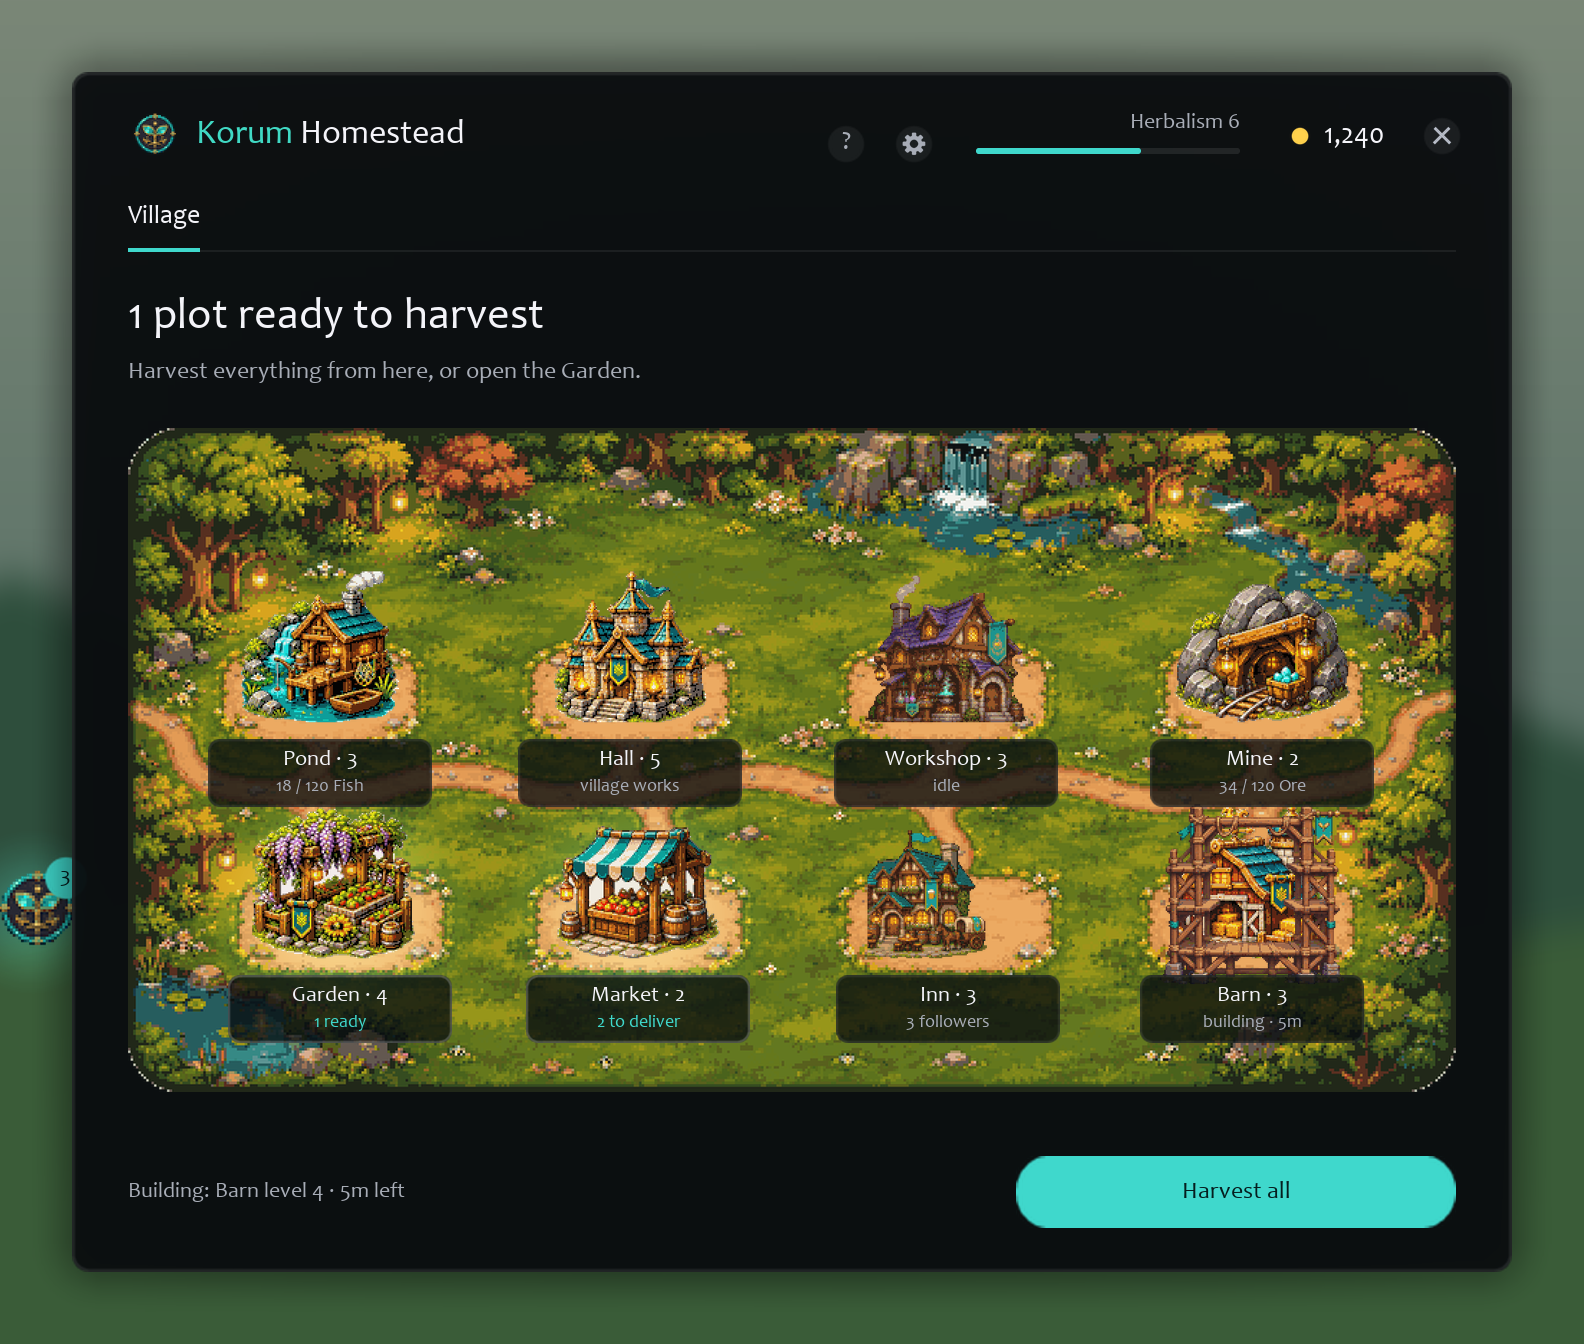
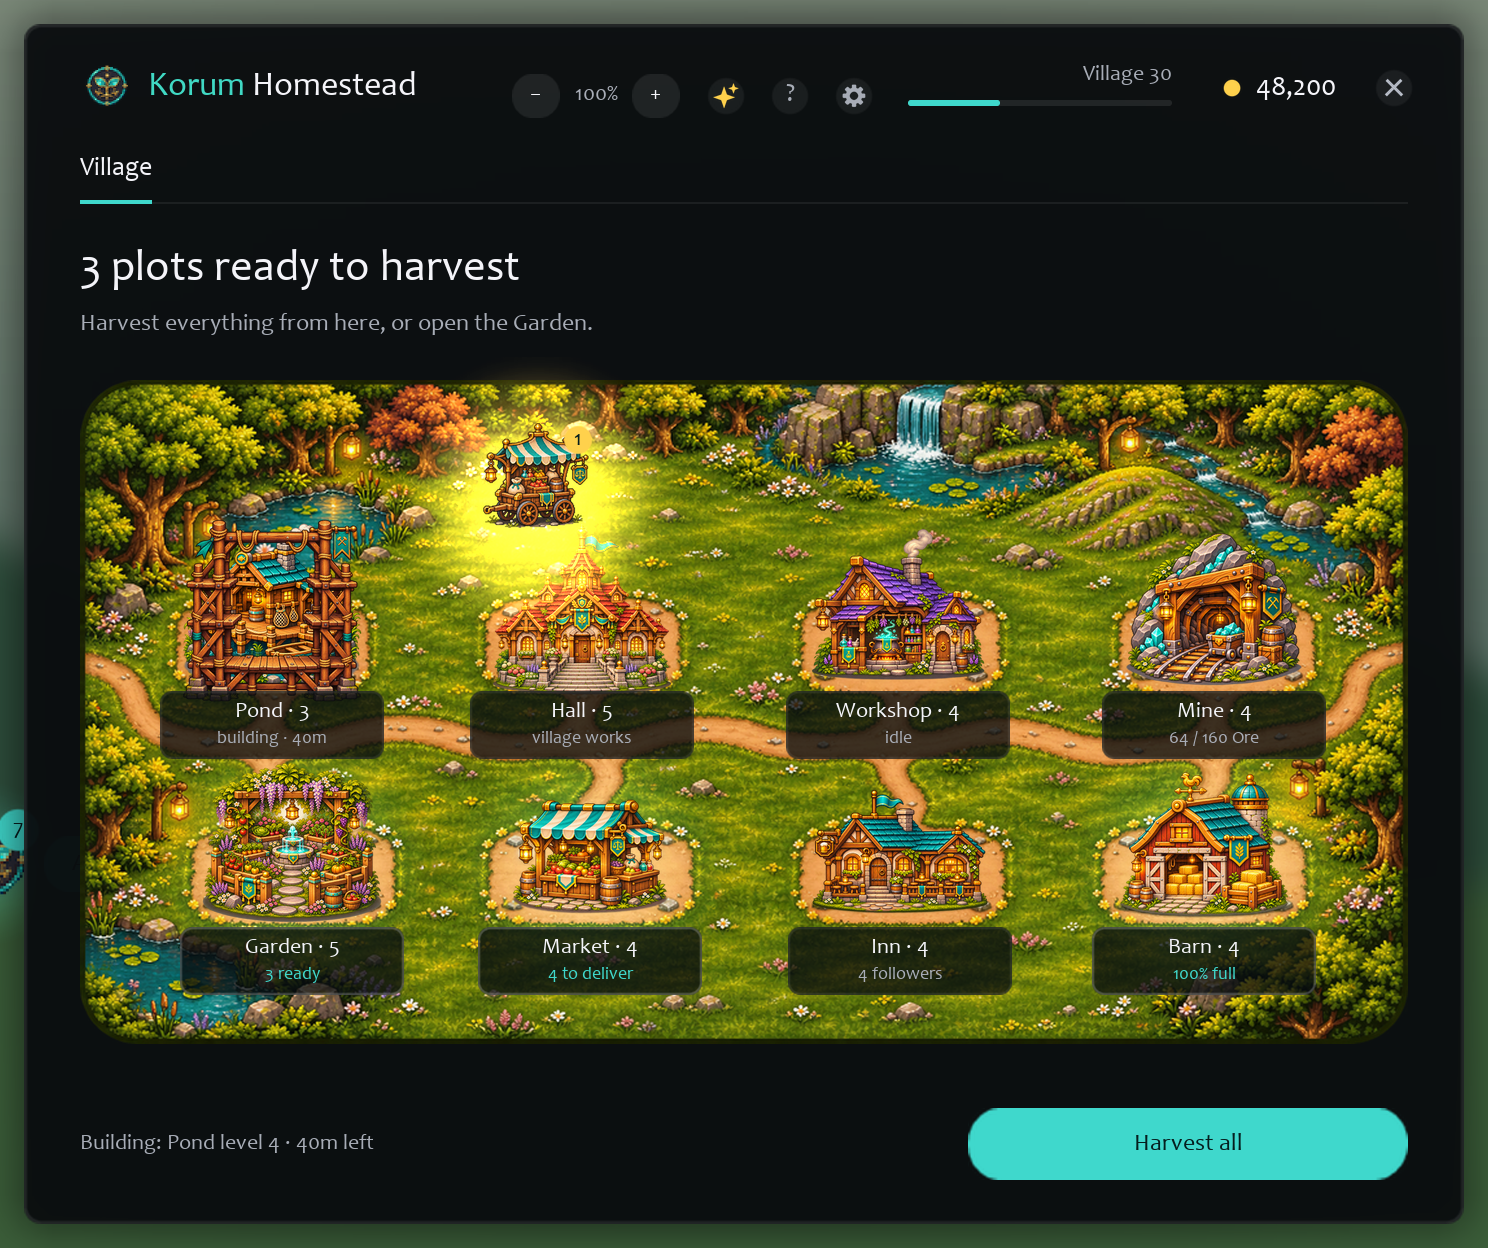
Página do CurseForge: texto da 2.x e imagens novas da vila e da Estalagem

diff --git a/ferramentas/curse_homestead.py b/ferramentas/curse_homestead.py
@@ -26,33 +26,38 @@ def logo():
 
 
 def screens():
+    """A village in the middle of the game (Village 30, every building built), in English."""
     now = 1700000000
     seen = "seen = {hall = true, garden = true, barn = true, market = true, mine = true, pond = true, workshop = true, inn = true},"
-    mid = ("{coins = 1240, xp = 150, level = 6, nplots = 5, selected = 2450, tutorial = {done = true}, lang = 'enUS', " + seen +
-           " stats = {harvested = 412, earned = 3980, delivered = 9},"
-           " buildings = {hall = 5, garden = 4, barn = 3, market = 2, mine = 2, pond = 3, workshop = 3, inn = 3},"
-           " goods = {ore = 34, fish = 18, heal = 2},"
-           f" work = {{id = 'barn', at = {now - 200}, time = 480}},"
-           f" plots = {{[1] = {{plant = 2450, at = {now - 2000}}}, [2] = {{plant = 2453, at = {now - 700}}},"
-           f" [3] = {{plant = 785, at = {now - 330}}}, [4] = {{plant = 2447, at = {now - 20}}}}},"
-           " crops = {[2447] = 14, [765] = 9, [2449] = 6, [785] = 12, [2450] = 5},"
-           " orders = {{plant = 785, qty = 8, coins = 358, xp = 80, npc = 2}, {plant = 2450, qty = 7, coins = 560, xp = 122, npc = 4},"
-           " {plant = 2449, qty = 4, coins = 115, xp = 24, npc = 1}}}")
-    first = mid.replace(seen, "seen = {},")
+    mid = ("{schema = 3, coins = 48200, xp = 2100, level = 30, selected = 3356, tutorial = {done = true}, newsSeen = 1000,"
+           " lang = 'enUS', " + seen +
+           " stats = {harvested = 4120, earned = 398000, delivered = 96},"
+           " buildings = {hall = 5, garden = 5, barn = 4, market = 4, mine = 4, pond = 3, workshop = 4, inn = 4},"
+           " goods = {ore = 64, fish = 38, heal = 4, healing = 2, stew = 3, bar = 5},"
+           f" work = {{id = 'pond', at = {now - 900}, time = 3300}},"
+           f" plots = {{[1] = {{plant = 3357, at = {now - 2000}}}, [2] = {{plant = 3356, at = {now - 300}}},"
+           f" [3] = {{plant = 3356, at = {now - 120}}}, [4] = {{plant = 2453, at = {now - 600}}},"
+           f" [5] = {{plant = 3369, at = {now - 40}}}, [6] = {{plant = 3355, at = {now - 2000}}}}},"
+           " crops = {[2447] = 24, [765] = 19, [2449] = 16, [785] = 22, [2450] = 15, [2453] = 30, [3356] = 12, [3357] = 8, [3369] = 14}}")
     shots = [
-        ("1-village", mid, "village", ""),
-        ("2-garden", mid, "garden", ""),
-        ("3-workshop", mid, "workshop", "NS.UI.trade = 'alchemy'; NS.Workshop:Craft('heal'); NS.Workshop:Craft('heal'); NS.UI:Refresh()"),
-        ("4-inn", mid, "inn", "NS.Inn:Start(1, 'short'); NS.Inn:Start(2, 'medium'); NS.UI:Refresh()"),
-        ("5-market", mid, "orders", ""),
-        ("6-how-it-works", first, "hall", ""),
-        ("7-guide", mid, "guide", "NS.UI.guidePage = 'buildings'; NS.UI:Refresh()"),
+        ("1-village", "village", "NS.Events:Spawn('merchant')", ""),
+        ("2-garden", "garden", "", ""),
+        ("3-workshop", "workshop", "", "NS.UI.trade = 'alchemy'; NS.Workshop:Craft('heal'); NS.Workshop:Craft('heal'); NS.UI:Refresh()"),
+        ("4-inn", "inn", "", "NS.Inn:Start(1, 'short'); NS.Inn:Start(2, 'medium'); NS.Inn:Start(3, 'long'); NS.UI:Refresh()"),
+        ("5-market", "orders", "", ""),
+        ("6-visitors", "visitors", "NS.Events:Spawn('urgent'); local e = NS.Events:Spawn('caravan'); local t = e.trades[1];"
+         " if type(t.give) == 'number' then NS.db.crops[t.give] = t.n else NS.db.goods[t.give] = t.n end", ""),
+        ("7-barn", "barn", "", ""),
     ]
-    for name, setup, view, after in shots:
+    for name, view, before, after in shots:
         g = sim.Game("enUS")
         g.run("math.randomseed(11)")
-        g.run("KorumHomesteadDB = " + setup)
+        g.run(f"SIM.clock = {now}")
+        g.run("KorumHomesteadDB = " + mid)
         g.load("KorumHomestead", sim.HOMESTEAD)
+        g.run("NS.Orders:Ensure()")
+        if before:
+            g.run(before)
         g.run(f"NS.UI:Show('{view}')")
         g.advance(2.0)
         if after:

diff --git a/docs/curseforge.md b/docs/curseforge.md
@@ -1,0 +1,115 @@
+![The village](https://raw.githubusercontent.com/joaomenestrina-debug/KorumHomestead/main/docs/1-village.png)
+
+## A cozy little village between adventures
+
+Waiting for a dungeon? Taking a flight or a boat? Got a few minutes before the next raid?
+
+Why not spend that time building a village of your own?
+
+Grow herbs, craft useful goods, improve your buildings, welcome visitors and send followers on adventures. Your village keeps growing even when you're away, so there's always something waiting when you return.
+
+Korum Homestead is a little world of its own. It doesn't interact with your character, inventory or gold. Everything you earn and build stays within the village. No extra addons required.
+
+## Features
+
+*   **Village** - eight buildings on a hand-drawn map, each with seven levels. Your Village grows from level 1 to 60, and every level opens something new.
+*   **Garden** - grow 27 herbs from the game, from Peacebloom to Icecap, each with its own growing time.
+*   **Barn and Market** - sell your harvest, or fill the villagers' orders (herbs and Workshop goods) for more coins and XP. An order of the day rewards you for coming back day after day.
+*   **Hall** - improve your village one project at a time. It points out the best upgrade for now.
+*   **Mine and Pond** - ore and fish pile up as time goes by.
+*   **Workshop** - 21 recipes in Alchemy, Cooking and Smithing. Crafted goods are always worth more than their ingredients.
+*   **Inn** - recruit up to six followers and send them on missions. They come back with coins and goods, and grow more experienced along the way.
+*   **Visitors** - now and then, while you play, someone arrives: a messenger with an urgent order, a generous merchant, a trading caravan, a rare fish in the Pond or a rare vein in the Mine. They don't stay long! *(2.1 alpha)*
+*   **While you were away** - when you come back, a card shows what's ready, who returned and what was made.
+*   **Easy to learn** - each building introduces itself the first time you visit, and there's a complete guide whenever you need it.
+*   **Always close by** - minimize your village into a floating icon that tells you when something needs you. Move it anywhere on your screen, or use the minimap button.
+*   **Made for your adventures** - the village hides itself when combat begins.
+*   **One village per account.**
+*   **Available in English and Brazilian Portuguese.**
+
+![Visitors](https://raw.githubusercontent.com/joaomenestrina-debug/KorumHomestead/main/docs/2-visitors.png)
+
+![The Market](https://raw.githubusercontent.com/joaomenestrina-debug/KorumHomestead/main/docs/5-market.png)
+
+![The Workshop](https://raw.githubusercontent.com/joaomenestrina-debug/KorumHomestead/main/docs/3-workshop.png)
+
+![The Inn](https://raw.githubusercontent.com/joaomenestrina-debug/KorumHomestead/main/docs/4-inn.png)
+
+## How to start
+
+Type **/kh**, click the village icon or use the minimap button.
+
+Your village is ready to welcome you. Head to the Garden, choose a seed and plant it. Come back when it's ready, collect your herbs, visit the Market and start making your village a little bigger.
+
+Coming from version 1.0? Your village is carried over, and nothing you had is lost.
+
+## Commands
+
+*   **/kh** - open or close your village
+*   **/kh harvest** - collect everything that's ready
+*   **/kh help** - see all available commands
+
+## Feedback
+
+Have an idea, found something broken or just want to share your thoughts?
+
+Leave a comment or open an issue on [GitHub](https://github.com/joaomenestrina-debug/KorumHomestead).
+
+***
+
+![A vila](https://raw.githubusercontent.com/joaomenestrina-debug/KorumHomestead/main/docs/1-village.png)
+
+## Uma pequena vila entre aventuras
+
+Esperando na fila de uma masmorra? Fazendo uma viagem de barco ou voo? Tem alguns minutos antes da próxima raide?
+
+Que tal aproveitar esse tempo para construir sua própria vila?
+
+Cultive ervas, produza itens, melhore suas construções, receba visitantes e envie seus seguidores em missões. Sua vila continua crescendo mesmo quando você está longe, então sempre haverá algo esperando por você quando voltar.
+
+Korum Homestead é um pequeno mundo à parte. Ele não interfere no seu personagem, inventário ou ouro. Tudo o que você conquista e constrói fica dentro da vila. Nenhum outro addon é necessário.
+
+## Funcionalidades
+
+*   **Vila** - oito construções num mapa desenhado à mão, cada uma com sete níveis. Sua Vila cresce do nível 1 ao 60, e cada nível libera algo novo.
+*   **Horta** - cultive 27 ervas do jogo, das mais simples às mais raras, cada uma com seu próprio tempo de crescimento.
+*   **Celeiro e Mercado** - venda sua colheita ou atenda às encomendas dos moradores (ervas e itens da Oficina) para ganhar mais moedas e XP. A encomenda do dia recompensa quem volta dia após dia.
+*   **Sede** - melhore sua vila, uma obra de cada vez. Ela mostra a melhor melhoria para o momento.
+*   **Mina e Lagoa** - minério e peixe se acumulam com o passar do tempo.
+*   **Oficina** - 21 receitas de Alquimia, Culinária e Ferraria. O que você fabrica sempre vale mais que os ingredientes.
+*   **Estalagem** - recrute até seis seguidores e envie-os em missões. Eles voltam com moedas e mercadorias, ficando mais experientes a cada jornada.
+*   **Visitantes** - de vez em quando, enquanto você joga, alguém chega: um mensageiro com um pedido urgente, um mercador generoso, uma caravana de troca, um peixe raro na Lagoa ou um veio raro na Mina. Eles não ficam muito tempo! *(2.1 alpha)*
+*   **Enquanto você esteve fora** - ao voltar, um cartão mostra o que está pronto, quem voltou e o que foi produzido.
+*   **Fácil de aprender** - cada construção se apresenta na primeira visita, e há um guia completo sempre que você precisar.
+*   **Sempre por perto** - minimize sua vila em um ícone flutuante que avisa quando algo precisa de você. Posicione-o onde quiser na tela ou use o botão no minimapa.
+*   **Feito para suas aventuras** - a vila se esconde automaticamente quando um combate começa.
+*   **Uma vila por conta.**
+*   **Disponível em inglês e português brasileiro.**
+
+![Visitantes](https://raw.githubusercontent.com/joaomenestrina-debug/KorumHomestead/main/docs/2-visitors.png)
+
+![O Mercado](https://raw.githubusercontent.com/joaomenestrina-debug/KorumHomestead/main/docs/5-market.png)
+
+![A Oficina](https://raw.githubusercontent.com/joaomenestrina-debug/KorumHomestead/main/docs/3-workshop.png)
+
+![A Estalagem](https://raw.githubusercontent.com/joaomenestrina-debug/KorumHomestead/main/docs/4-inn.png)
+
+## Como começar
+
+Digite **/kh**, clique no ícone da vila ou use o botão no minimapa.
+
+Sua vila está pronta para receber você. Vá até a Horta, escolha uma semente e plante. Volte quando estiver pronta, faça a colheita, visite o Mercado e comece a aumentar sua vila.
+
+Vem da versão 1.0? Sua vila é mantida, e nada do que você tinha se perde.
+
+## Comandos
+
+*   **/kh** - abre ou fecha sua vila
+*   **/kh colher** (ou **/kh harvest**) - colhe tudo o que estiver pronto
+*   **/kh ajuda** (ou **/kh help**) - mostra todos os comandos disponíveis
+
+## Feedback
+
+Encontrou um problema ou teve alguma ideia para melhorar o addon?
+
+Deixe um comentário ou abra uma solicitação no [GitHub](https://github.com/joaomenestrina-debug/KorumHomestead).
